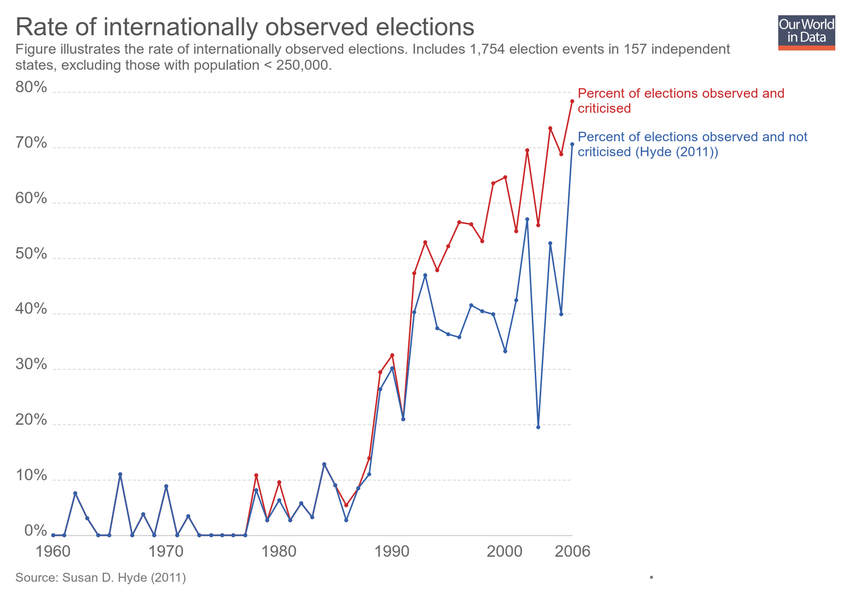
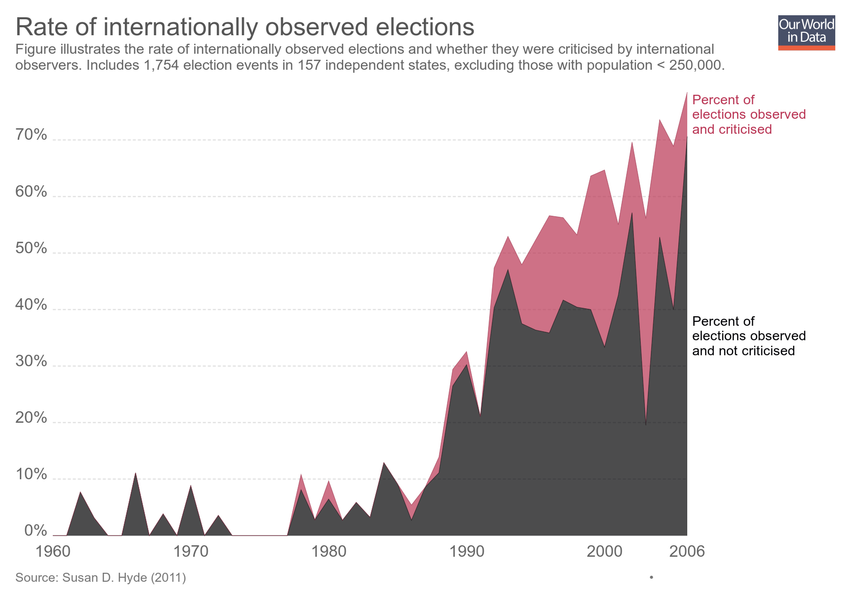
Updating chart rate-of-internationally-observed-elections

diff --git a/grapher/hiv-expenditure.html b/grapher/hiv-expenditure.html
@@ -1,4 +1,4 @@
-<!doctype html><html><head><meta name="viewport" content="width=device-width, initial-scale=1" /><title>HIV expenditure on prevention and treatment - Our World in Data</title><meta name="description" content="Total expenditure on HIV/AIDS prevention and treatment, measured in US$." /><link rel="canonical" href="https://ourworldindata.org/grapher/hiv-expenditure" /><meta property="fb:app_id" content="1149943818390250" /><meta property="og:url" content="https://ourworldindata.org/grapher/hiv-expenditure" /><meta property="og:title" content="HIV expenditure on prevention and treatment" /><meta property="og:description" content="Total expenditure on HIV/AIDS prevention and treatment, measured in US$." /><meta property="og:image" content="https://ourworldindata.org/grapher/exports/hiv-expenditure.png?v=1" /><meta property="og:image:width" content="850" /><meta property="og:image:height" content="600" /><meta property="og:site_name" content="Our World in Data" /><meta name="twitter:card" content="summary_large_image" /><meta name="twitter:site" content="@OurWorldInData" /><meta name="twitter:creator" content="@OurWorldInData" /><meta name="twitter:title" content="HIV expenditure on prevention and treatment" /><meta name="twitter:description" content="Total expenditure on HIV/AIDS prevention and treatment, measured in US$." /><meta name="twitter:image" content="https://ourworldindata.org/grapher/exports/hiv-expenditure.png?v=1" /><style>
+<!doctype html><html><head><meta name="viewport" content="width=device-width, initial-scale=1" /><title>HIV expenditure - Our World in Data</title><meta name="description" content="Country-reported HIV expenditure, measured in current US$ per year. The year of reported expenditure varies by country; this information can be found by hovering over a given country." /><link rel="canonical" href="https://ourworldindata.org/grapher/hiv-expenditure" /><meta property="fb:app_id" content="1149943818390250" /><meta property="og:url" content="https://ourworldindata.org/grapher/hiv-expenditure" /><meta property="og:title" content="HIV expenditure" /><meta property="og:description" content="Country-reported HIV expenditure, measured in current US$ per year. The year of reported expenditure varies by country; this information can be found by hovering over a given country." /><meta property="og:image" content="https://ourworldindata.org/grapher/exports/hiv-expenditure.png?v=1" /><meta property="og:image:width" content="850" /><meta property="og:image:height" content="600" /><meta property="og:site_name" content="Our World in Data" /><meta name="twitter:card" content="summary_large_image" /><meta name="twitter:site" content="@OurWorldInData" /><meta name="twitter:creator" content="@OurWorldInData" /><meta name="twitter:title" content="HIV expenditure" /><meta name="twitter:description" content="Country-reported HIV expenditure, measured in current US$ per year. The year of reported expenditure varies by country; this information can be found by hovering over a given country." /><meta name="twitter:image" content="https://ourworldindata.org/grapher/exports/hiv-expenditure.png?v=1" /><style>
         html, body {
             height: 100%;
             margin: 0;
@@ -20,19 +20,8 @@
         }
     </style><noscript><style>
                     figure { display: none !important; }
-                </style></noscript><link rel="stylesheet" href="https://ourworldindata.org/grapher/assets/commons.bundle.046264a5fd643542a8df.css" /><link rel="preload" href="/grapher/data/variables/96328.json?v=1" as="fetch" crossorigin /></head><body class="singleChart"><figure data-grapher-src="/grapher/hiv-expenditure"></figure><noscript id="fallback"><img src="/grapher/exports/hiv-expenditure.svg" /><p>Interactive visualization requires JavaScript</p></noscript><script src="https://cdn.polyfill.io/v2/polyfill.min.js?features=es6,fetch"></script><script src="https://ourworldindata.org/grapher/assets/commons.bundle.046264a5fd643542a8df.js"></script><script src="https://ourworldindata.org/grapher/assets/charts.bundle.dcf65b68eddaba4c6a58.js"></script><script>
-        var jsonConfig = {"map":{"projection":"World","targetYear":2015,"variableId":96328,"timeTolerance":3,"baseColorScheme":"YlGnBu","isManualBuckets":true,"colorSchemeLabels":[],"colorSchemeValues":[50000000,100000000,150000000,200000000,250000000,300000000,350000000,400000000],"defaultProjection":"World","colorSchemeMinValue":0,"customNumericColors":[null,null],"customCategoryColors":{},"customCategoryLabels":{},"customHiddenCategories":{}},"tab":"map","slug":"hiv-expenditure","type":"LineChart","title":"HIV expenditure on prevention and treatment","xAxis":{"scaleType":"linear"},"yAxis":{"min":0,"scaleType":"linear"},"version":1,"subtitle":"Total expenditure on HIV/AIDS prevention and treatment, measured in US$.","hasMapTab":true,"stackMode":"absolute","dimensions":[{"display":{"shortUnit":"$"},"property":"y","variableId":96328}],"hasChartTab":true,"isPublished":true,"selectedData":[{"index":0,"entityId":123},{"index":0,"entityId":237},{"index":0,"entityId":95}],"addCountryMode":"add-country","id":2488};
-        var figure = document.getElementsByTagName("figure")[0];
-        try {
-            window.App = {};
-            window.Global = { rootUrl: 'https://ourworldindata.org/grapher' };
-            ChartView.bootstrap({ jsonConfig: jsonConfig, containerNode: figure })
-        } catch (err) {
-            figure.innerHTML = "<img src=\"/grapher/exports/hiv-expenditure.svg\"/><p>Unable to load interactive visualization</p>";
-            figure.setAttribute("id", "fallback");
-            throw err;
-        }
-    </script></body></html>d":219},{"index":0,"entityId":23},{"index":0,"entityId":25},{"index":0,"entityId":26},{"index":0,"entityId":28},{"index":0,"entityId":29},{"index":0,"entityId":30},{"index":0,"entityId":4},{"index":0,"entityId":31},{"index":0,"entityId":32},{"index":0,"entityId":34},{"index":0,"entityId":35},{"index":0,"entityId":36},{"index":0,"entityId":37},{"index":0,"entityId":39},{"index":0,"entityId":40},{"index":0,"entityId":41},{"index":0,"entityId":18581},{"index":0,"entityId":42},{"index":0,"entityId":43},{"index":0,"entityId":174},{"index":0,"entityId":173},{"index":0,"entityId":172},{"index":0,"entityId":171},{"index":0,"entityId":170},{"index":0,"entityId":169},{"index":0,"entityId":168},{"index":0,"entityId":166},{"index":0,"entityId":143}],"addCountryMode":"add-country","hideTitleAnnotation":true,"id":2293};
+                </style></noscript><link rel="stylesheet" href="https://ourworldindata.org/grapher/assets/commons.bundle.046264a5fd643542a8df.css" /><link rel="preload" href="/grapher/data/variables/85855.json?v=1" as="fetch" crossorigin /></head><body class="singleChart"><figure data-grapher-src="/grapher/hiv-expenditure"></figure><noscript id="fallback"><img src="/grapher/exports/hiv-expenditure.svg" /><p>Interactive visualization requires JavaScript</p></noscript><script src="https://cdn.polyfill.io/v2/polyfill.min.js?features=es6,fetch"></script><script src="https://ourworldindata.org/grapher/assets/commons.bundle.046264a5fd643542a8df.js"></script><script src="https://ourworldindata.org/grapher/assets/charts.bundle.dcf65b68eddaba4c6a58.js"></script><script>
+        var jsonConfig = {"map":{"projection":"World","targetYear":2016,"variableId":85855,"equalSizeBins":true,"timeTolerance":5,"baseColorScheme":"Purples","isManualBuckets":true,"colorSchemeLabels":[],"colorSchemeValues":[50000000,100000000,200000000,300000000,400000000,500000000,750000000,1000000000],"defaultProjection":"World","colorSchemeMinValue":0,"customNumericColors":[null,null],"customCategoryColors":{},"customCategoryLabels":{},"customHiddenCategories":{}},"tab":"map","slug":"hiv-expenditure","type":"LineChart","title":"HIV expenditure","xAxis":{"scaleType":"linear"},"yAxis":{"min":0,"scaleType":"linear"},"version":1,"subtitle":"Country-reported HIV expenditure, measured in current US$ per year. The year of reported expenditure varies by country; this information can be found by hovering over a given country.","hasMapTab":true,"stackMode":"absolute","dimensions":[{"display":{},"property":"y","variableId":85855}],"isAutoSlug":true,"sourceDesc":"UNAIDS","hasChartTab":false,"isPublished":true,"selectedData":[{"index":0,"entityId":84},{"index":0,"entityId":233},{"index":0,"entityId":229},{"index":0,"entityId":15},{"index":0,"entityId":16},{"index":0,"entityId":17},{"index":0,"entityId":19},{"index":0,"entityId":20},{"index":0,"entityId":21},{"index":0,"entityId":22},{"index":0,"entityId":219},{"index":0,"entityId":23},{"index":0,"entityId":25},{"index":0,"entityId":26},{"index":0,"entityId":28},{"index":0,"entityId":29},{"index":0,"entityId":30},{"index":0,"entityId":4},{"index":0,"entityId":31},{"index":0,"entityId":32},{"index":0,"entityId":34},{"index":0,"entityId":35},{"index":0,"entityId":36},{"index":0,"entityId":37},{"index":0,"entityId":39},{"index":0,"entityId":40},{"index":0,"entityId":41},{"index":0,"entityId":18581},{"index":0,"entityId":42},{"index":0,"entityId":43},{"index":0,"entityId":174},{"index":0,"entityId":173},{"index":0,"entityId":172},{"index":0,"entityId":171},{"index":0,"entityId":170},{"index":0,"entityId":169},{"index":0,"entityId":168},{"index":0,"entityId":166},{"index":0,"entityId":143}],"addCountryMode":"add-country","hideTitleAnnotation":true,"id":2293};
         var figure = document.getElementsByTagName("figure")[0];
         try {
             window.App = {};

diff --git a/grapher/rate-of-internationally-observed-elections.html b/grapher/rate-of-internationally-observed-elections.html
@@ -1,4 +1,4 @@
-<!doctype html><html><head><meta name="viewport" content="width=device-width, initial-scale=1" /><title>Rate of internationally observed elections - Our World in Data</title><meta name="description" content="Figure illustrates the rate of internationally observed elections. Includes 1,754 election events in 157 independent states, excluding those with population &lt; 250,000." /><link rel="canonical" href="https://ourworldindata.org/grapher/rate-of-internationally-observed-elections" /><meta property="fb:app_id" content="1149943818390250" /><meta property="og:url" content="https://ourworldindata.org/grapher/rate-of-internationally-observed-elections" /><meta property="og:title" content="Rate of internationally observed elections" /><meta property="og:description" content="Figure illustrates the rate of internationally observed elections. Includes 1,754 election events in 157 independent states, excluding those with population &lt; 250,000." /><meta property="og:image" content="https://ourworldindata.org/grapher/exports/rate-of-internationally-observed-elections.png?v=3" /><meta property="og:image:width" content="850" /><meta property="og:image:height" content="600" /><meta property="og:site_name" content="Our World in Data" /><meta name="twitter:card" content="summary_large_image" /><meta name="twitter:site" content="@OurWorldInData" /><meta name="twitter:creator" content="@OurWorldInData" /><meta name="twitter:title" content="Rate of internationally observed elections" /><meta name="twitter:description" content="Figure illustrates the rate of internationally observed elections. Includes 1,754 election events in 157 independent states, excluding those with population &lt; 250,000." /><meta name="twitter:image" content="https://ourworldindata.org/grapher/exports/rate-of-internationally-observed-elections.png?v=3" /><style>
+<!doctype html><html><head><meta name="viewport" content="width=device-width, initial-scale=1" /><title>Rate of internationally observed elections - Our World in Data</title><meta name="description" content="Figure illustrates the rate of internationally observed elections and whether they were criticised by international observers. Includes 1,754 election events in 157 independent states, excluding those with population &lt; 250,000." /><link rel="canonical" href="https://ourworldindata.org/grapher/rate-of-internationally-observed-elections" /><meta property="fb:app_id" content="1149943818390250" /><meta property="og:url" content="https://ourworldindata.org/grapher/rate-of-internationally-observed-elections" /><meta property="og:title" content="Rate of internationally observed elections" /><meta property="og:description" content="Figure illustrates the rate of internationally observed elections and whether they were criticised by international observers. Includes 1,754 election events in 157 independent states, excluding those with population &lt; 250,000." /><meta property="og:image" content="https://ourworldindata.org/grapher/exports/rate-of-internationally-observed-elections.png?v=4" /><meta property="og:image:width" content="850" /><meta property="og:image:height" content="600" /><meta property="og:site_name" content="Our World in Data" /><meta name="twitter:card" content="summary_large_image" /><meta name="twitter:site" content="@OurWorldInData" /><meta name="twitter:creator" content="@OurWorldInData" /><meta name="twitter:title" content="Rate of internationally observed elections" /><meta name="twitter:description" content="Figure illustrates the rate of internationally observed elections and whether they were criticised by international observers. Includes 1,754 election events in 157 independent states, excluding those with population &lt; 250,000." /><meta name="twitter:image" content="https://ourworldindata.org/grapher/exports/rate-of-internationally-observed-elections.png?v=4" /><style>
         html, body {
             height: 100%;
             margin: 0;
@@ -20,8 +20,8 @@
         }
     </style><noscript><style>
                     figure { display: none !important; }
-                </style></noscript><link rel="stylesheet" href="https://ourworldindata.org/grapher/assets/commons.bundle.046264a5fd643542a8df.css" /><link rel="preload" href="/grapher/data/variables/97378+97379.json?v=3" as="fetch" crossorigin /></head><body class="singleChart"><figure data-grapher-src="/grapher/rate-of-internationally-observed-elections"></figure><noscript id="fallback"><img src="/grapher/exports/rate-of-internationally-observed-elections.svg" /><p>Interactive visualization requires JavaScript</p></noscript><script src="https://cdn.polyfill.io/v2/polyfill.min.js?features=es6,fetch"></script><script src="https://ourworldindata.org/grapher/assets/commons.bundle.046264a5fd643542a8df.js"></script><script src="https://ourworldindata.org/grapher/assets/charts.bundle.dcf65b68eddaba4c6a58.js"></script><script>
-        var jsonConfig = {"id":2589,"map":{"projection":"World","colorSchemeLabels":[],"colorSchemeValues":[],"colorSchemeMinValue":0,"customNumericColors":[],"customCategoryColors":{},"customCategoryLabels":{},"customHiddenCategories":{}},"tab":"chart","slug":"rate-of-internationally-observed-elections","type":"LineChart","title":"Rate of internationally observed elections","xAxis":{"scaleType":"linear"},"yAxis":{"max":80,"min":0,"scaleType":"linear"},"version":3,"subtitle":"Figure illustrates the rate of internationally observed elections. Includes 1,754 election events in 157 independent states, excluding those with population < 250,000.","hasMapTab":false,"stackMode":"absolute","dimensions":[{"display":{"name":"Percent of elections observed and criticised","unit":"%"},"property":"y","variableId":97378},{"display":{"unit":"%"},"property":"y","variableId":97379}],"hasChartTab":true,"isPublished":true,"selectedData":[{"index":0,"entityId":355},{"index":1,"entityId":355}],"addCountryMode":"change-country","hideTitleAnnotation":true};
+                </style></noscript><link rel="stylesheet" href="https://ourworldindata.org/grapher/assets/commons.bundle.046264a5fd643542a8df.css" /><link rel="preload" href="/grapher/data/variables/97378+97379.json?v=4" as="fetch" crossorigin /></head><body class="singleChart"><figure data-grapher-src="/grapher/rate-of-internationally-observed-elections"></figure><noscript id="fallback"><img src="/grapher/exports/rate-of-internationally-observed-elections.svg" /><p>Interactive visualization requires JavaScript</p></noscript><script src="https://cdn.polyfill.io/v2/polyfill.min.js?features=es6,fetch"></script><script src="https://ourworldindata.org/grapher/assets/commons.bundle.046264a5fd643542a8df.js"></script><script src="https://ourworldindata.org/grapher/assets/charts.bundle.dcf65b68eddaba4c6a58.js"></script><script>
+        var jsonConfig = {"id":2589,"map":{"projection":"World","colorSchemeLabels":[],"colorSchemeValues":[],"colorSchemeMinValue":0,"customNumericColors":[],"customCategoryColors":{},"customCategoryLabels":{},"customHiddenCategories":{}},"tab":"chart","slug":"rate-of-internationally-observed-elections","type":"StackedArea","title":"Rate of internationally observed elections","xAxis":{"scaleType":"linear"},"yAxis":{"max":80,"min":0,"scaleType":"linear"},"version":4,"subtitle":"Figure illustrates the rate of internationally observed elections and whether they were criticised by international observers. Includes 1,754 election events in 157 independent states, excluding those with population < 250,000.","hasMapTab":false,"stackMode":"absolute","dimensions":[{"display":{"name":"Percent of elections observed and criticised","unit":"%"},"property":"y","variableId":97378},{"display":{"name":"Percent of elections observed and not criticised"},"property":"y","variableId":97379}],"hasChartTab":true,"isPublished":true,"selectedData":[{"index":0,"entityId":355},{"index":1,"entityId":355}],"addCountryMode":"change-country","baseColorScheme":"Inferno","hideRelativeToggle":true,"hideTitleAnnotation":true};
         var figure = document.getElementsByTagName("figure")[0];
         try {
             window.App = {};
